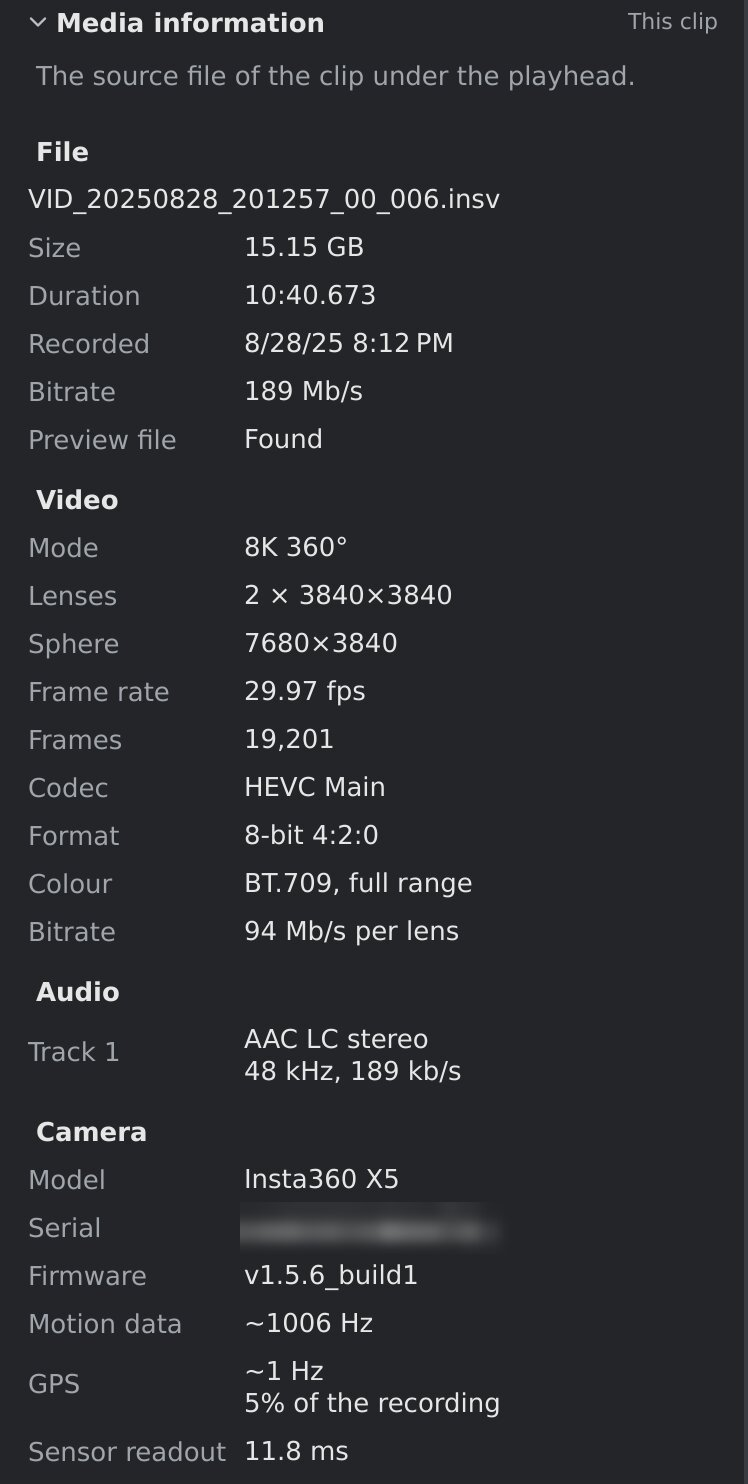
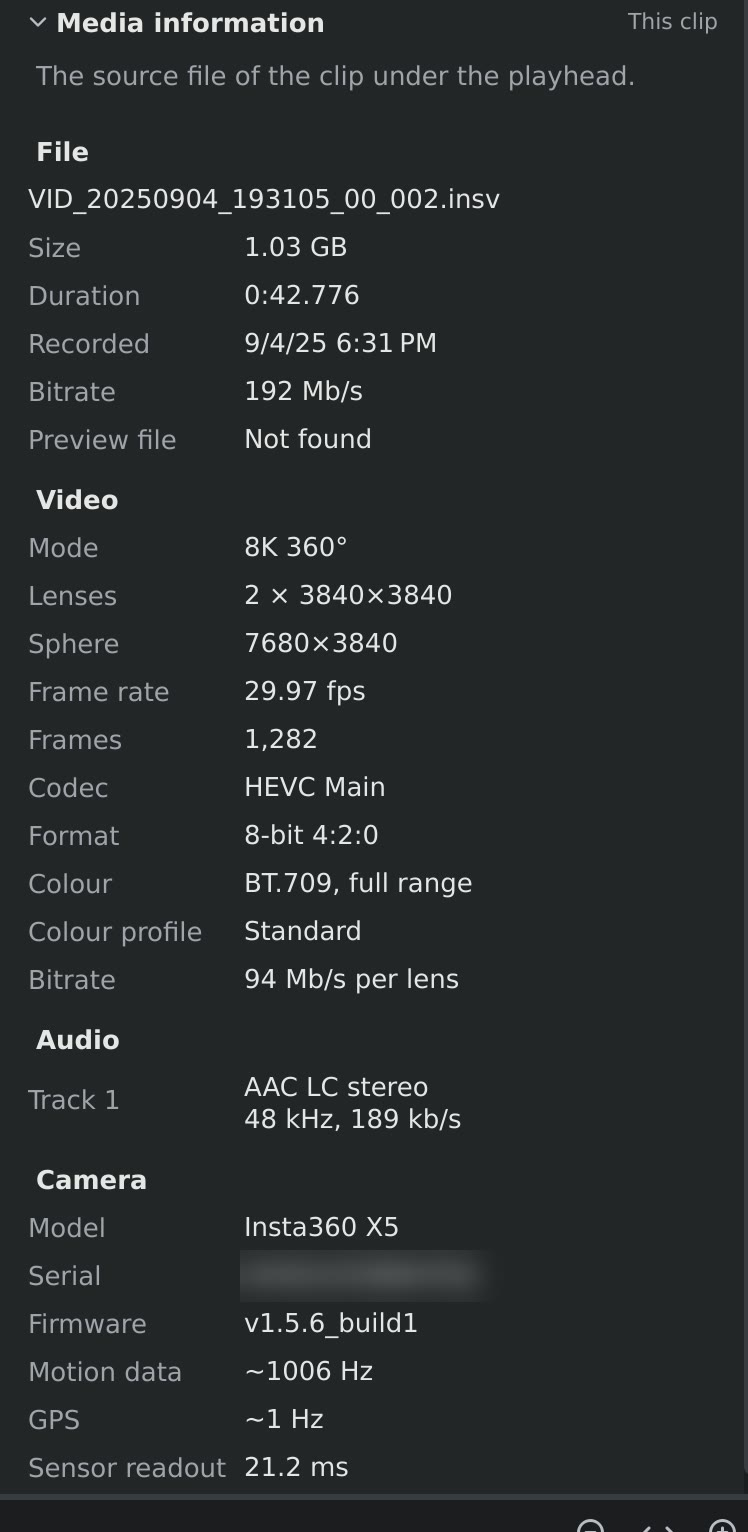
feat(ui): recognise log clips and ask for their LUT
The trailer names the colour profile a clip was filmed in (metadata
field 22: "standard" or "I_Log"). Media information shows it as the
Colour profile, and for a clip filmed in a log profile without a LUT
the Colour section frames the LUT picker in red and says which
profile's LUT it needs. Only Insta360's I-Log is known so far; the
wording names the profile, not a maker's site, so other brands' log
profiles can be added the same way.

diff --git a/tests/settings_sidebar_test.cpp b/tests/settings_sidebar_test.cpp
@@ -16,6 +16,8 @@
 #include "panels/AudioPanel.h"
 #include "panels/ColourPanel.h"
 #include "panels/MediaInfoPanel.h"
+
+#include <InsvMediaInfo.h>
 #include "panels/OverlayPanel.h"
 #include "panels/TitleTextPanel.h"
 #include "panels/TransitionPanel.h"
@@ -553,6 +555,14 @@ void testColourLut(SettingsSidebar &bar)
     colour->setLutProblem({});
     CHECK(problem->isHidden());
 
+    // A log clip without a LUT: a red frame on the picker, and why.
+    auto *wanted = find<QLabel>(colour, "colourLutWanted");
+    CHECK(wanted && wanted->isHidden() && !lut->property("attention").toBool());
+    colour->setLutWanted("This clip was filmed in I-Log, a log profile.");
+    CHECK(wanted && !wanted->isHidden() && lut->property("attention").toBool());
+    colour->setLutWanted({});
+    CHECK(wanted && wanted->isHidden() && !lut->property("attention").toBool());
+
     auto *reset = find<QPushButton>(colour, "colourReset");
     CHECK(reset && reset->isEnabled());
     edited.clear();
@@ -560,6 +570,36 @@ void testColourLut(SettingsSidebar &bar)
         reset->click();
     CHECK(!edited.isEmpty() && edited.last().at(0).value<ColorGrade>().lut.isEmpty());
     colour->setState(ColorGrade{});
+}
+
+// Media information: the colour profile the trailer names, I-Log by its
+// own name.
+void testMediaInfoProfile(SettingsSidebar &bar)
+{
+    MediaInfoPanel *panel = bar.mediaInfo();
+    auto shows = [panel](const QString &text) {
+        for (const QLabel *l : panel->findChildren<QLabel *>())
+            if (l->text() == text)
+                return true;
+        return false;
+    };
+    insv::MediaInfo m;
+    m.path = "/c/VID_20261018_185907_00_006.insv";
+    insv::MediaVideoStream v;
+    v.width = v.height = 2880;
+    v.fps = 29.97;
+    m.video = {v, v};
+    m.cameraModel = "Insta360 X5";
+    m.colorProfile = "I_Log";
+    panel->setInfo(m);
+    CHECK(shows("Colour profile") && shows("I-Log"));
+    m.colorProfile = "standard";
+    panel->setInfo(m);
+    CHECK(shows("Colour profile") && shows("Standard"));
+    m.colorProfile.clear(); // a phone video: nothing to say
+    panel->setInfo(m);
+    CHECK(!shows("Colour profile"));
+    panel->setNoClip();
 }
 
 int main(int argc, char **argv)
@@ -591,6 +631,7 @@ int main(int argc, char **argv)
     testTrackStatus(bar);
     testTransitionTab(bar);
     testColourLut(bar);
+    testMediaInfoProfile(bar);
     testProjectSettingsDialog();
 
     if (const QByteArray shot = qgetenv("ORBIS_SETTINGS_SHOT"); !shot.isEmpty()) {

diff --git a/src/insv/InsvTrailer.cpp b/src/insv/InsvTrailer.cpp
@@ -166,7 +166,7 @@ void ParseMakerNotes(const std::vector<uint8_t>& payload, InsvMakerNotes& out) {
 }
 
 // The subset of record 0x101 (the `ExtraMetadata` protobuf, docs/formats/insta360-x5.md
-// §5) that timing and IMU scaling need.
+// §5) that timing and IMU scaling need, and the colour profile.
 struct ImuMetadata {
     uint64_t first_frame_timestamp = 0; // field 24
     double gyro_timestamp_ms = 0;       // field 28
@@ -174,6 +174,7 @@ struct ImuMetadata {
     int is_raw_gyro = -1;               // field 62 (-1 = absent)
     double acc_range_g = 16;            // field 65.1; telemetry-parser's defaults
     double gyro_range_dps = 2000;       // field 65.2
+    std::string gamma_mode;             // field 22
 };
 
 bool ReadVarint(const std::vector<uint8_t>& b, size_t& i, uint64_t& v) {
@@ -223,6 +224,7 @@ ImuMetadata ParseImuMetadata(const std::vector<uint8_t>& payload) {
         else if (f == 25 && wt == 1) m.rolling_shutter_ms = ReadDoubleLE(b.data());
         else if (f == 28 && wt == 1) m.gyro_timestamp_ms = ReadDoubleLE(b.data());
         else if (f == 62 && wt == 0) m.is_raw_gyro = v ? 1 : 0;
+        else if (f == 22 && wt == 2) m.gamma_mode.assign(b.begin(), b.end());
         else if (f == 65 && wt == 2) {
             WalkProtobuf(b, [&](uint32_t g, int gwt, uint64_t gv, const std::vector<uint8_t>&) {
                 if (gwt != 0 || gv == 0) return;
@@ -451,6 +453,7 @@ std::optional<InsvTelemetry> ReadInsvTelemetry(const std::string& file_path,
     out.first_frame_timestamp = meta.first_frame_timestamp;
     out.gyro_timestamp_ms = meta.gyro_timestamp_ms;
     out.rolling_shutter_ms = meta.rolling_shutter_ms;
+    out.gamma_mode = meta.gamma_mode;
     return out;
 }
 

diff --git a/tests/insv_test.cpp b/tests/insv_test.cpp
@@ -571,12 +571,15 @@ std::string writeX5Trailer(const char* name, const std::vector<TrailerRecord>& r
 
 // Record 0x101: the maker-notes strings first (tag, 1-byte length -- what
 // ParseMakerNotes reads), then the protobuf fields timing and IMU scaling use,
-// the extended calibration (field 111) and the lens-profile table (145).
+// the colour profile (22; the raw-gyro one is filmed in I-Log, the other has
+// none), the extended calibration (field 111) and the lens-profile table (145).
 std::vector<uint8_t> metadataRecord(bool rawGyro)
 {
     Bytes m;
     m.pbString(1, "IAHEA2500000001").pbString(2, "Insta360 X5").pbString(3, "v1.5.6_build1");
     m.pbString(5, "2_1.0_2.0_3.0");
+    if (rawGyro)
+        m.pbString(22, "I_Log");
     m.pbVarint(24, 2468081984ull);
     m.pbDouble(25, 21.244);
     m.pbDouble(28, 1.6);
@@ -670,6 +673,7 @@ void testTrailerRecords()
         CHECK(t->first_frame_timestamp == 2468081984ull);
         CHECK(near(t->rolling_shutter_ms, 21.244, 1e-12));
         CHECK(near(t->gyro_timestamp_ms, 1.6, 1e-12));
+        CHECK(t->gamma_mode == "I_Log");
         CHECK(t->imu.size() == 3);
         if (t->imu.size() == 3) {
             CHECK(t->imu[1].timestamp == 1001000);
@@ -711,6 +715,7 @@ void testTrailerRecords()
     if (td && td->imu.size() == 2)
         CHECK(td->imu[1].timestamp == 5001 && td->imu[1].accel[2] == 1.0 && td->imu[1].gyro[2] == 0.3);
     CHECK(td && td->exposure.empty() && td->gps_records == 0 && td->time_map_offset_ms == 0.0);
+    CHECK(td && td->gamma_mode.empty()); // no field 22
     std::filesystem::remove(d);
 
     // No trailer (no magic), no moov: nothing, and no crash.

diff --git a/src/ui/panels/ColourPanel.cpp b/src/ui/panels/ColourPanel.cpp
@@ -8,6 +8,7 @@
 #include <QPushButton>
 #include <QSignalBlocker>
 #include <QSlider>
+#include <QStyle>
 #include <QWidget>
 
 #include <algorithm>
@@ -71,6 +72,11 @@ ColourPanel::ColourPanel(QWidget *parent)
     m_lutProblem->setWordWrap(true);
     m_lutProblem->setVisible(false);
     form()->addRow(m_lutProblem);
+    m_lutWanted = new QLabel(this);
+    m_lutWanted->setObjectName(QStringLiteral("colourLutWanted"));
+    m_lutWanted->setWordWrap(true);
+    m_lutWanted->setVisible(false);
+    form()->addRow(m_lutWanted);
 
     SliderRow strength = makeSliderRow(this, 0, kMaxPercent, 1, 10);
     m_lutStrength = strength.slider;
@@ -213,6 +219,7 @@ void ColourPanel::setState(const ColorGrade &grade)
 void ColourPanel::setNoClip()
 {
     setLutProblem({});
+    setLutWanted({});
     setState(ColorGrade{});
     setBodyEnabled(false);
 }
@@ -251,6 +258,19 @@ void ColourPanel::setLutProblem(const QString &problem)
 {
     m_lutProblem->setText(problem);
     m_lutProblem->setVisible(!problem.isEmpty());
+}
+
+void ColourPanel::setLutWanted(const QString &why)
+{
+    m_lutWanted->setText(why);
+    m_lutWanted->setVisible(!why.isEmpty());
+    // theme.qss: QComboBox[attention="true"] has the error colour's frame.
+    const bool attention = !why.isEmpty();
+    if (m_lut->property("attention").toBool() != attention) {
+        m_lut->setProperty("attention", attention);
+        m_lut->style()->unpolish(m_lut);
+        m_lut->style()->polish(m_lut);
+    }
 }
 
 void ColourPanel::setCanPaste(bool canPaste)

diff --git a/src/ui/MainWindow.cpp b/src/ui/MainWindow.cpp
@@ -2460,19 +2460,29 @@ int MainWindow::addOverlayAudio(int clipId)
     return m_timeline->addOverlaySound(clipId);
 }
 
-void MainWindow::syncMediaInfoPanel(const ClipItem &c)
+const insv::MediaInfo *MainWindow::mediaInfoFor(const QString &path, QString *error)
 {
-    auto it = m_mediaInfo.constFind(c.sourcePath);
+    auto it = m_mediaInfo.constFind(path);
     if (it == m_mediaInfo.constEnd()) {
         insv::MediaInfo info;
         std::string err;
-        if (!insv::ProbeMediaInfo(c.sourcePath.toStdString(), info, err)) {
-            m_mediaInfoPanel->setError(c.sourcePath, QString::fromStdString(err));
-            return;
+        if (!insv::ProbeMediaInfo(path.toStdString(), info, err)) {
+            if (error)
+                *error = QString::fromStdString(err);
+            return nullptr;
         }
-        it = m_mediaInfo.insert(c.sourcePath, info);
+        it = m_mediaInfo.insert(path, info);
     }
-    m_mediaInfoPanel->setInfo(*it);
+    return &*it;
+}
+
+void MainWindow::syncMediaInfoPanel(const ClipItem &c)
+{
+    QString error;
+    if (const insv::MediaInfo *info = mediaInfoFor(c.sourcePath, &error))
+        m_mediaInfoPanel->setInfo(*info);
+    else
+        m_mediaInfoPanel->setError(c.sourcePath, error);
 }
 
 void MainWindow::pushTimelineToController()

diff --git a/src/ui/panels/MediaInfoPanel.cpp b/src/ui/panels/MediaInfoPanel.cpp
@@ -146,6 +146,15 @@ void MediaInfoPanel::setInfo(const insv::MediaInfo &m)
             colour += QStringLiteral(", ");
         colour += v.fullRange ? tr("full range") : tr("limited range");
         addValue(tr("Colour"), colour);
+        if (const QString log = QString::fromStdString(m.logProfile()); !log.isEmpty())
+            addValue(tr("Colour profile"), log,
+                     tr("A log profile: the picture looks flat and grey until the LUT the "
+                        "camera maker publishes for %1 is applied (Colour section).")
+                         .arg(log));
+        else if (m.colorProfile == "standard")
+            addValue(tr("Colour profile"), tr("Standard"));
+        else if (!m.colorProfile.empty())
+            addValue(tr("Colour profile"), QString::fromStdString(m.colorProfile));
         const QString br = bitRate(v.bitRate);
         addValue(tr("Bitrate"), m.video.size() > 1 && !br.isEmpty() ? tr("%1 per lens").arg(br) : br);
     }

diff --git a/src/ui/MainWindowColour.cpp b/src/ui/MainWindowColour.cpp
@@ -102,6 +102,20 @@ void MainWindow::syncColourPanel(const ColorGrade &grade)
                           .arg(QFileInfo(grade.lut).fileName(), QString::fromStdString(why));
     }
     m_colourPanel->setLutProblem(problem);
+
+    // Filmed in log and no LUT yet: point at the picker.
+    QString wanted;
+    const ClipItem *c = m_timeline->clipById(editClipId());
+    if (c && !c->flat && grade.lut.isEmpty() && !c->mediaMissing) {
+        const insv::MediaInfo *info = mediaInfoFor(c->sourcePath);
+        if (const QString log = info ? QString::fromStdString(info->logProfile()) : QString();
+            !log.isEmpty())
+            wanted = tr("This clip was filmed in %1, a log profile, so it looks flat and grey. "
+                        "Load the LUT the camera maker publishes for %1 to give it normal "
+                        "colours.")
+                         .arg(log);
+    }
+    m_colourPanel->setLutWanted(wanted);
 }
 
 void MainWindow::loadLut()

diff --git a/src/insv/InsvMediaInfo.h b/src/insv/InsvMediaInfo.h
@@ -55,6 +55,14 @@ struct MediaInfo {
     double imuRateHz = 0.0; // 0 if the trailer has no IMU record
     int64_t exposureRecords = 0;
     double rollingShutterMs = 0.0;
+    // The colour profile it was filmed in (trailer field 22): "standard",
+    // "I_Log", ...; "" when the trailer doesn't say.
+    std::string colorProfile;
+    // The log profile it was filmed in, by its maker's name ("I-Log"), or ""
+    // when it wasn't filmed in log (or the file doesn't say). A log clip looks
+    // flat until the maker's LUT for that profile is applied. Other makers'
+    // profiles (D-Log M, GP-Log) go here once their files are read.
+    std::string logProfile() const { return colorProfile == "I_Log" ? "I-Log" : ""; }
     // GPS track (record 0x700): presence only, never positions -- the panel is
     // what people screenshot for bug reports.
     int64_t gpsRecords = 0; // 0 if the trailer has no GPS record

diff --git a/src/ui/panels/ColourPanel.h b/src/ui/panels/ColourPanel.h
@@ -39,6 +39,9 @@ public:
     // Why the clip's LUT isn't applied (missing, unreadable), shown under
     // the picker; empty = it is.
     void setLutProblem(const QString &problem);
+    // The clip needs a LUT (filmed in log, and it has none): the picker
+    // gets a red frame and `why` under it. Empty = it doesn't.
+    void setLutWanted(const QString &why);
 
 signals:
     void gradeEdited(const ColorGrade &grade);
@@ -57,6 +60,7 @@ private:
     QSlider *m_lutStrength = nullptr; // percent: 0..100
     QLabel *m_lutStrengthValue = nullptr;
     QLabel *m_lutProblem = nullptr;
+    QLabel *m_lutWanted = nullptr;
     QStringList m_luts;
     QString m_shownLut; // the clip's, while Load LUT... is picked
     QSlider *m_exposure = nullptr; // tenths of a stop: -30..30 -> -3.0..3.0 EV

diff --git a/src/insv/InsvTrailer.h b/src/insv/InsvTrailer.h
@@ -77,6 +77,10 @@ struct InsvTelemetry {
     double gyro_timestamp_ms = 0;
     // Field 25: sensor rolling-shutter readout time, ms (varies per mode).
     double rolling_shutter_ms = 0;
+    // Field 22: the colour profile the clip was filmed in -- "standard", or
+    // "I_Log" for Insta360's log profile (§3.3; the stream itself is tagged
+    // the same either way). Empty when absent.
+    std::string gamma_mode;
     // Record 128 (TimeMap), written by Insta360 software on trimmed exports:
     // the original recording time (ms) of this file's video at t = 0. Field
     // 24 still names the *original* first frame, so a trimmed file's video

diff --git a/src/ui/MainWindow.h b/src/ui/MainWindow.h
@@ -371,6 +371,9 @@ private:
     // Reflect clip `c`'s source file in the Media information panel (probed
     // once per path, cached in m_mediaInfo; a failed probe isn't cached).
     void syncMediaInfoPanel(const ClipItem &c);
+    // `path`'s probe, from m_mediaInfo (probed and cached on first use);
+    // nullptr, with *error, when it can't be probed.
+    const insv::MediaInfo *mediaInfoFor(const QString &path, QString *error = nullptr);
     // Repaint the timeline widget from the model + refresh the edit
     // toolbar's reframe-button state + update the export action.
     void refreshTimelineWidget();

diff --git a/src/insv/InsvMediaInfo.cpp b/src/insv/InsvMediaInfo.cpp
@@ -142,6 +142,7 @@ bool ProbeMediaInfo(const std::string& path, MediaInfo& out, std::string& err) {
         }
         out.exposureRecords = static_cast<int64_t>(tele->exposure.size());
         out.rollingShutterMs = tele->rolling_shutter_ms;
+        out.colorProfile = tele->gamma_mode;
         out.gpsRecords = static_cast<int64_t>(tele->gps_records);
         out.gpsFixes = static_cast<int64_t>(tele->gps_fixes);
         out.gpsRateHz = tele->gps_rate_hz;
